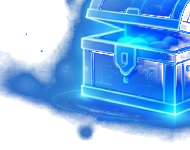
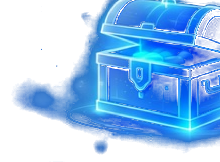
百宝箱banner：炫彩蓝底+完整宝箱无裁切

diff --git a/treasure.html b/treasure.html
@@ -5,7 +5,7 @@
 <meta name="viewport" content="width=device-width, initial-scale=1.0">
 <title>百宝箱 · 资源中心 · 拾光小站</title>
 <meta name="description" content="百宝箱——灵感工具、素材资源、写作助手，一站式创作宝库。">
-<link rel="stylesheet" href="css/style.css?v=7">
+<link rel="stylesheet" href="css/style.css?v=8">
 </head>
 <body data-page="treasure">
 
@@ -44,7 +44,7 @@
 <!-- ================= 百宝箱蓝色 Banner（独立通栏） ================= -->
 <section class="treasure-banner">
   <div class="wrap treasure-banner-inner">
-    <img class="treasure-chest" src="images/treasure/chest.png" alt="百宝箱">
+    <img class="treasure-chest" src="images/treasure/chest.png?v=2" alt="百宝箱">
     <div class="treasure-banner-text">
       <h1>百宝箱 · 资源中心</h1>
       <p class="sub">灵感工具 · 素材资源 · 写作助手 · 一站式创作宝库</p>

diff --git a/css/style.css b/css/style.css
@@ -433,7 +433,7 @@ body.page-blue .photo {
 /* ---------- 百宝箱蓝色 Banner（独立通栏） ---------- */
 .treasure-banner {
   background:
-    url("../images/treasure/banner-bg.jpg") center / cover no-repeat,
+    url("../images/treasure/banner-bg.jpg?v=2") center / cover no-repeat,
     linear-gradient(120deg, #1877F2 0%, #0f63dd 55%, #0a45a5 100%);
   position: relative; overflow: hidden;
   margin: 26px 0 10px;

diff --git a/album.html b/album.html
@@ -5,7 +5,7 @@
 <meta name="viewport" content="width=device-width, initial-scale=1.0">
 <title>相册 · 光影留存 · 拾光小站</title>
 <meta name="description" content="用照片记录旅程与时刻——旅拍、城市、自然、人文。">
-<link rel="stylesheet" href="css/style.css?v=7">
+<link rel="stylesheet" href="css/style.css?v=8">
 </head>
 <body data-page="album" class="page-blue">
 

diff --git a/travel.html b/travel.html
@@ -5,7 +5,7 @@
 <meta name="viewport" content="width=device-width, initial-scale=1.0">
 <title>冰川极光：七日挪威峡湾徒步纪实 · 拾光小站</title>
 <meta name="description" content="七日挪威峡湾徒步，追极光、走冰川的完整纪实。">
-<link rel="stylesheet" href="css/style.css?v=7">
+<link rel="stylesheet" href="css/style.css?v=8">
 </head>
 <body data-page="travel">
 

diff --git a/index.html b/index.html
@@ -5,7 +5,7 @@
 <meta name="viewport" content="width=device-width, initial-scale=1.0">
 <title>拾光小站 · 首页</title>
 <meta name="description" content="拾光小站——游记、随笔、相册与百宝箱，记录山水与日常。">
-<link rel="stylesheet" href="css/style.css?v=7">
+<link rel="stylesheet" href="css/style.css?v=8">
 </head>
 <body data-page="index">
 

diff --git a/essays.html b/essays.html
@@ -5,7 +5,7 @@
 <meta name="viewport" content="width=device-width, initial-scale=1.0">
 <title>随笔 · 拾光小站</title>
 <meta name="description" content="随笔——短内容时间流，记录日常的碎片与心情。">
-<link rel="stylesheet" href="css/style.css?v=7">
+<link rel="stylesheet" href="css/style.css?v=8">
 </head>
 <body data-page="essays">
 

diff --git a/records.html b/records.html
@@ -5,7 +5,7 @@
 <meta name="viewport" content="width=device-width, initial-scale=1.0">
 <title>记录 · 拾光小站</title>
 <meta name="description" content="记录——站点与人生的时间线。">
-<link rel="stylesheet" href="css/style.css?v=7">
+<link rel="stylesheet" href="css/style.css?v=8">
 </head>
 <body data-page="records">
 
